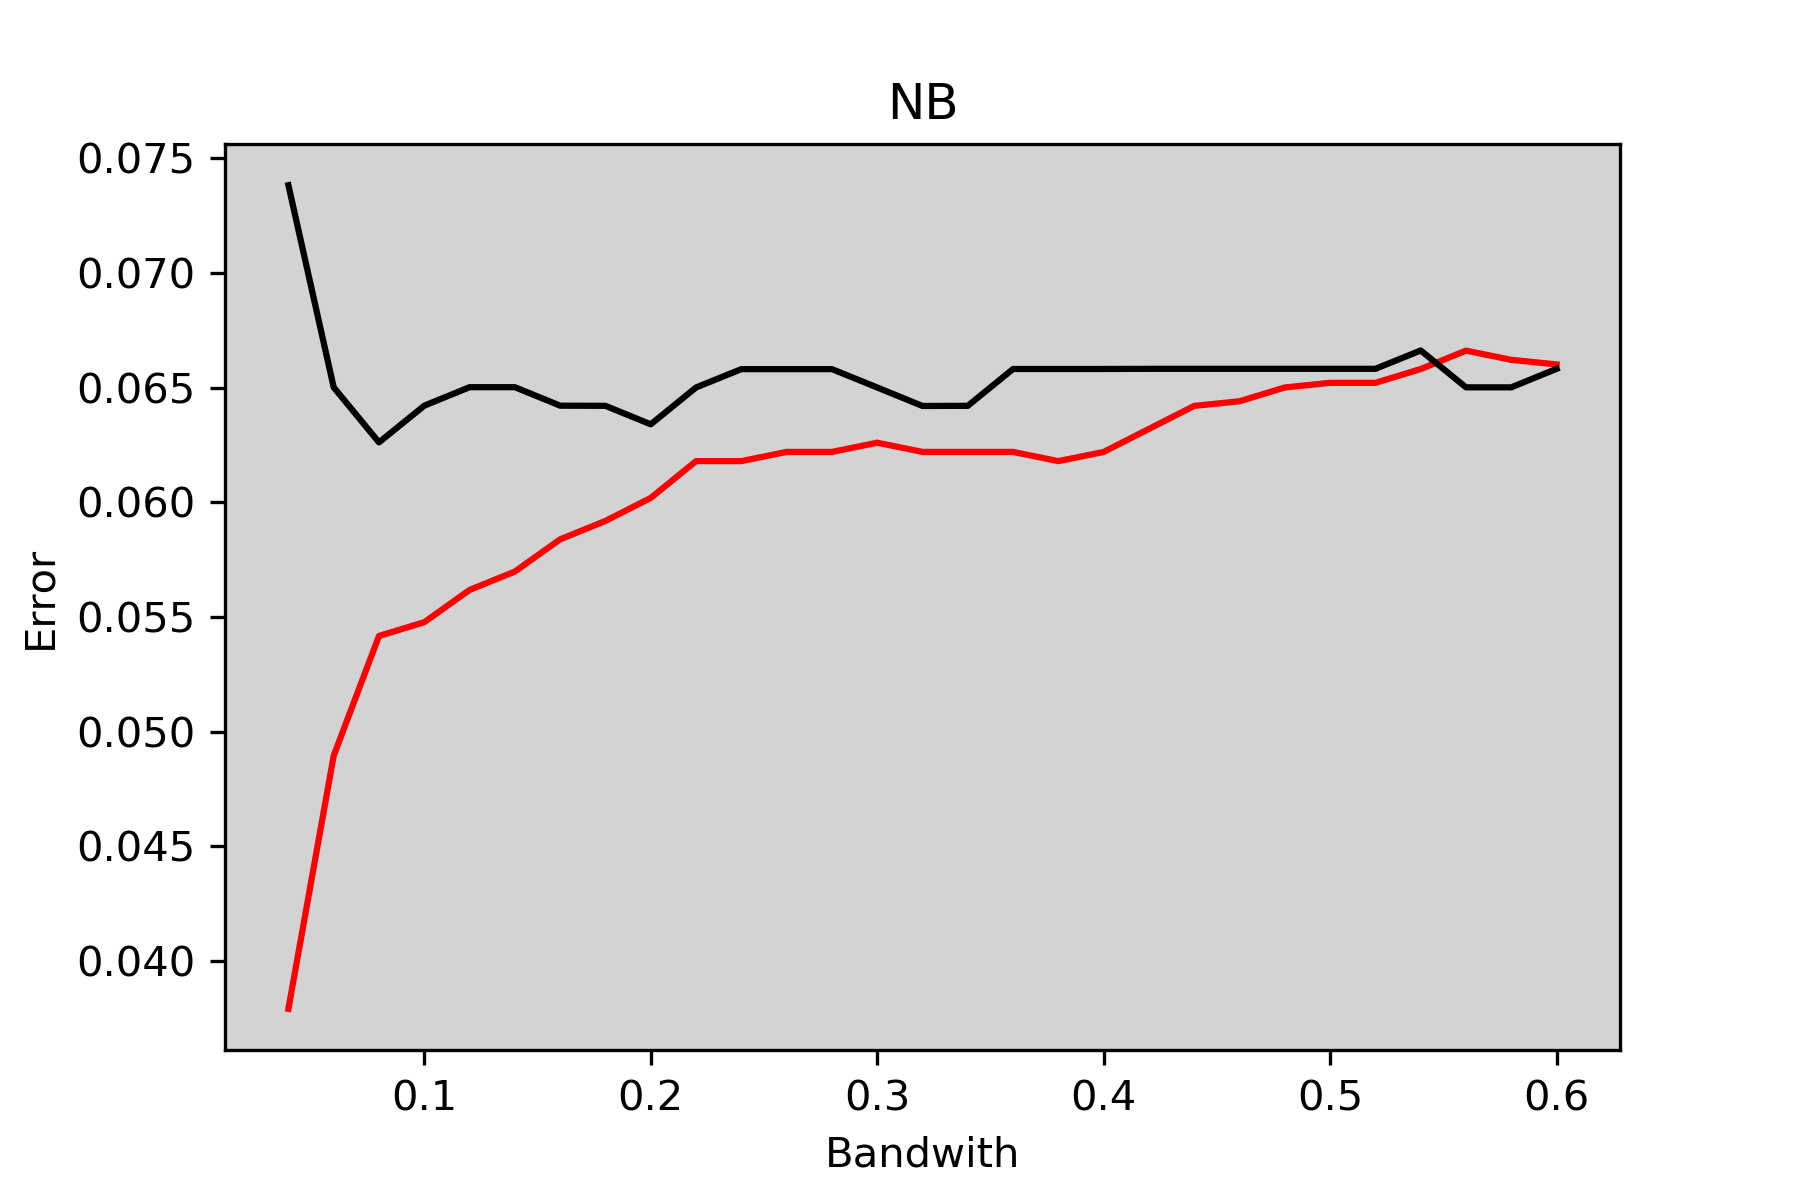
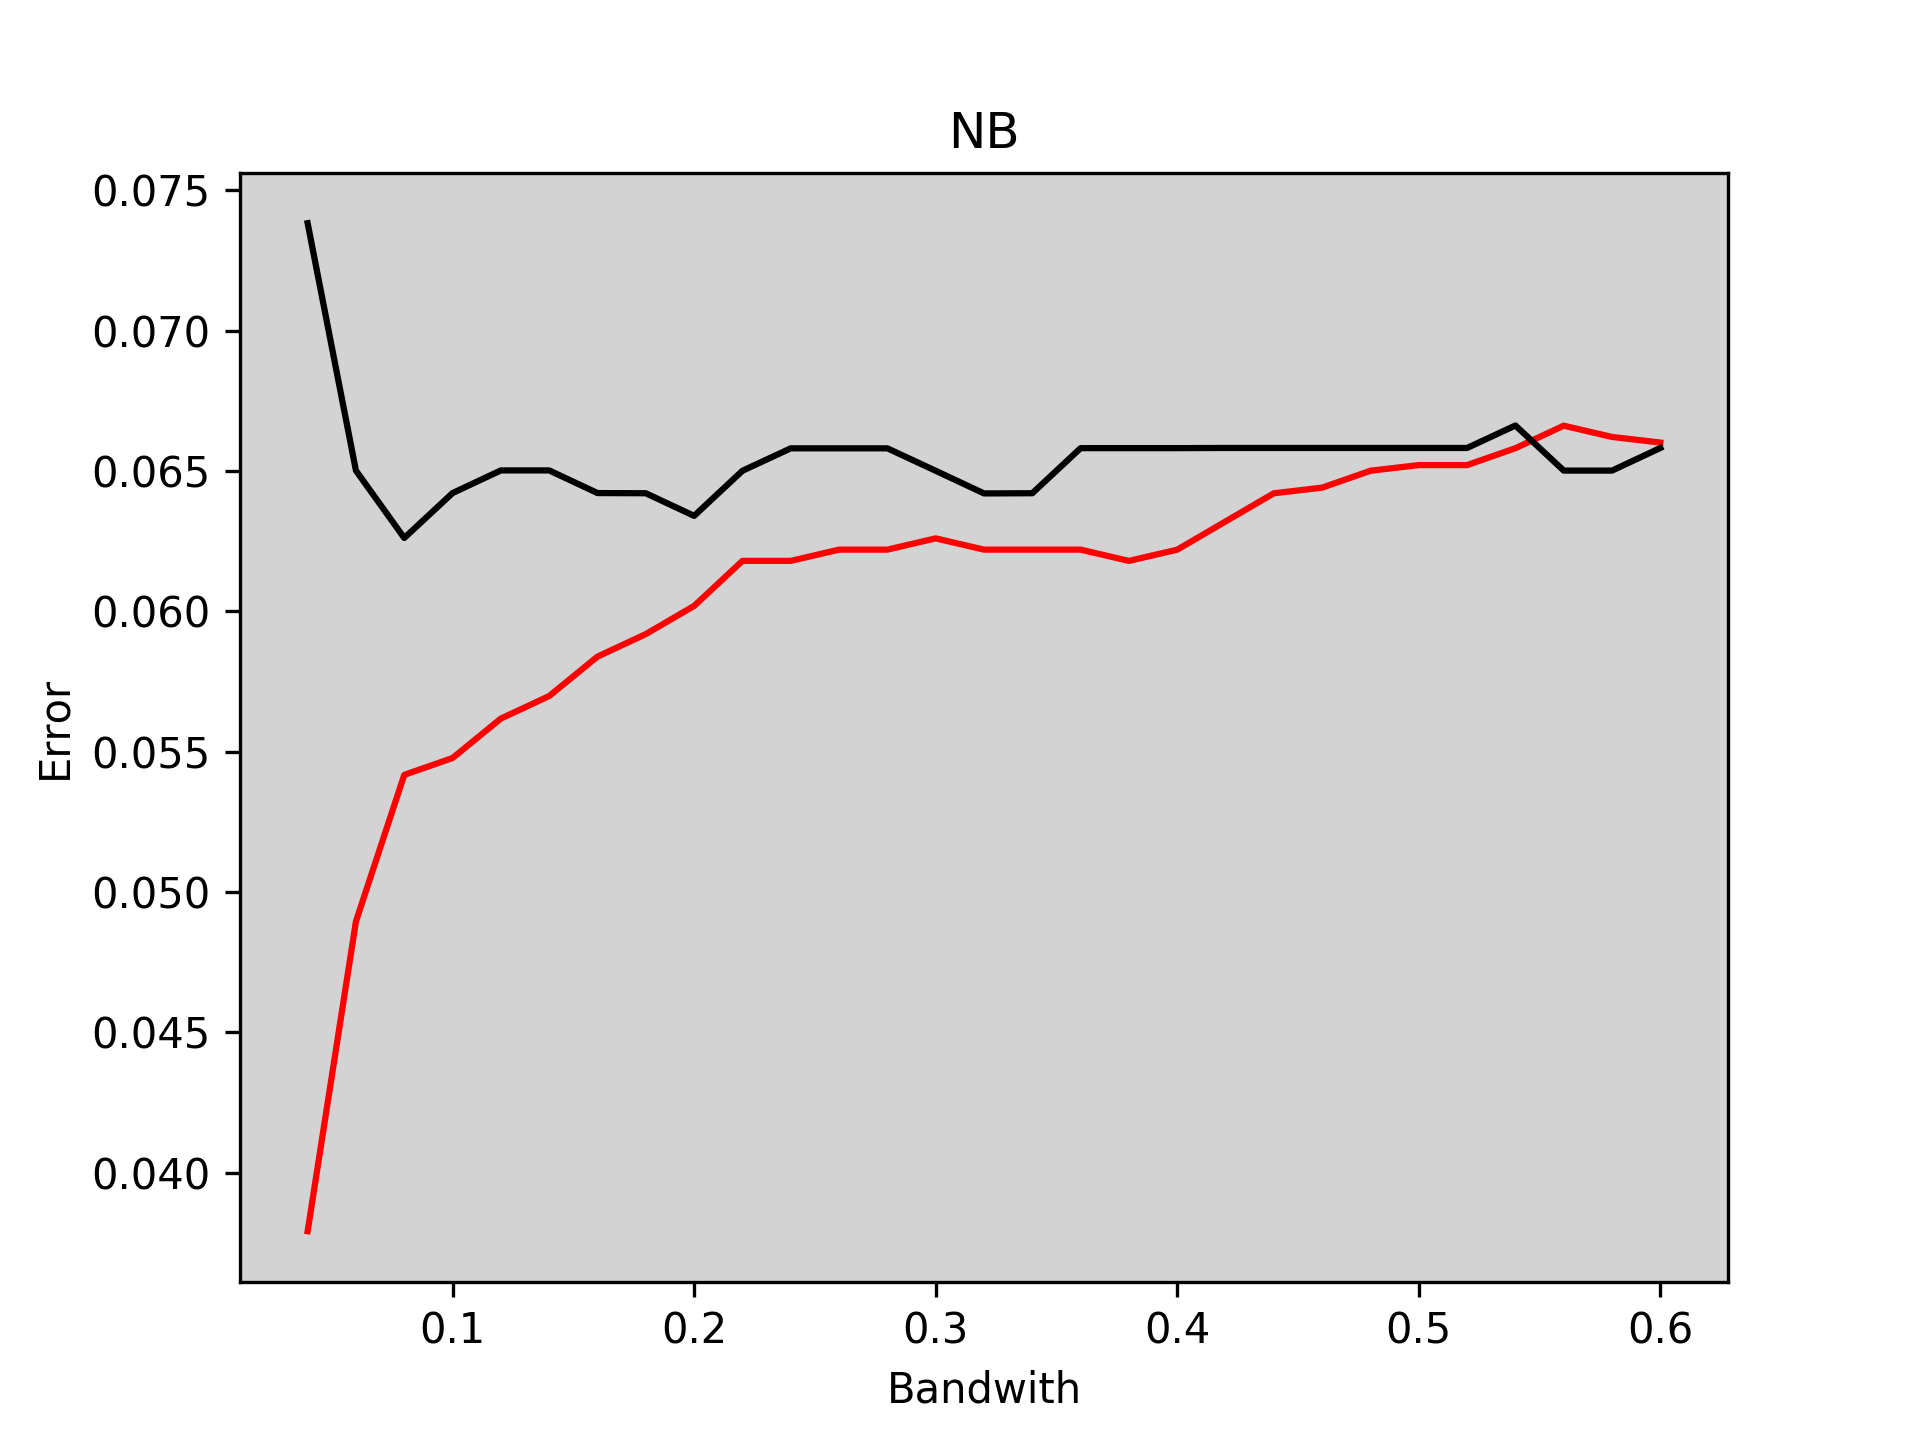
Graficos Gamma

diff --git a/ourNaive.py b/ourNaive.py
@@ -8,6 +8,7 @@ from sklearn.model_selection import StratifiedKFold;
 from sklearn.metrics import accuracy_score;
 
 testX = testY = [[],[]];
+best = [];
 
 def calcKDE(train,bandwith,feat):
     return KernelDensity(kernel='gaussian', bandwidth=bandwith).fit(np.array(train)[:,[feat]]);
@@ -37,6 +38,7 @@ def calcB(Xs,Ys, train, validation, bandwith,test):
 def predict(X, pTrue, pFalse,kde):
     probFalse = np.repeat(pFalse, X.shape[0]);
     probTrue = np.repeat(pTrue, X.shape[0]);
+    global best;
     best = [];
     for i in range(X.shape[1]):
         probFalse += kde[0][i].score_samples(np.array(X)[:,[i]]);
@@ -73,14 +75,14 @@ def kFolds(Ys,Xs,k,values):
         bandwidths.append(bandwith);
         trainErrorA.append(tError/k);
         trainValidA.append(vError/k);
+    plt.rcParams['axes.facecolor'] = 'lightgrey';
     plt.title('NB');
     plt.xlabel('Bandwith');
     plt.ylabel('Error');
     plt.plot(bandwidths, trainErrorA, '-r', label='Training error');
     plt.plot(bandwidths, trainValidA, '-k', label='Validation error');
-    plt.rcParams['axes.facecolor'] = 'lightgrey';
-    plt.savefig("NB", dpi=300)
-    plt.show();     
+    plt.savefig("NB", dpi=300);
+    plt.show();
     return bestBandwidth;
 
 
@@ -104,15 +106,11 @@ def readFromFile(fileName):
     return values;
 
 def getValuesFromFile(trainValues,testValues):   
-    shuffle(trainValues);
     Xs,Ys = stats(trainValues);
     bestBandwidth = kFolds(Ys,Xs,5,trainValues);
-    #TODO: Ler test file e temos de fazer split sobre todo o split sobre todo o trainX e trainY, calc prob, fit e por fim score sobre o ficheiro TEST
-    # Deve ficar algo assim:
-    shuffle(testValues);
     global testX;
     global testY;
     testX, testY = stats(testValues);
     score = calcB(Xs,Ys,np.array(list(enumerate(Xs)))[:,[0]].flatten(), [0],bestBandwidth,True);
-    return bestBandwidth,score;
+    return bestBandwidth,score,best;
 

diff --git a/SVMWithCrossValid.py b/SVMWithCrossValid.py
@@ -1,34 +1,46 @@
 from sklearn.svm import SVC;
 from ourNaive import *;
 
+SVMPredicts = [];
+
 def crossValidScore(trainX,trainY,validX,validY,g):
+	global SVMPredicts;
 	cl = SVC(gamma=g);
 	cl.fit(trainX,trainY);
-	toScoreValues = [];
+	SVMPredicts = [];
 	for row in range(validX.shape[0]):
-		toScoreValues.append(cl.predict([validX[row]]));
-	return (1-accuracy_score(np.array(validY),np.array(toScoreValues).flatten()));
+		SVMPredicts.append(cl.predict([validX[row]]));
+	return (1-accuracy_score(np.array(validY),np.array(SVMPredicts).flatten()));
 
 def crossValidateGamma(trainValues,k):
+	gammas = [];
+	errors = [];
 	shuffle(trainValues);
 	trainXs,trainYs = stats(trainValues);
 	kk = StratifiedKFold(k);
 	gamma = 0.2;
 	bestGamma = 0;
 	bestVError = 99999;
-	while gamma <=0.6:
+	while gamma <=6:
 		validError = 0;
 		for train,valid in kk.split(trainYs,trainYs):
 			validError = crossValidScore(trainXs[train],trainYs[train],trainXs[valid],trainYs[valid],gamma);
+		gammas.append(gamma);
+		errors.append(validError/k);
 		if validError/k < bestVError:
 			bestVError = validError/k;
 			bestGamma = gamma;
 		gamma += 0.2;
+	plt.close();
+	plt.title('SVM');
+	plt.xlabel('Gamma');
+	plt.ylabel('Error');
+	plt.plot(gammas,errors,'-r',label='Validation error');
+	plt.savefig("SVM",dpi=300);
+	plt.show();
 	return bestGamma,bestVError;
 
 def SVMGetScore(trainValues,testValues,gamma):
-	shuffle(trainValues);
 	trainXs,trainYs = stats(trainValues);
-	shuffle(testValues);
 	testXs,testYs = stats(testValues);
-	return crossValidScore(trainXs,trainYs,testXs,testYs,gamma);
+	return crossValidScore(trainXs,trainYs,testXs,testYs,gamma),list(np.array(SVMPredicts).flatten());

diff --git a/TP1.py b/TP1.py
@@ -4,22 +4,31 @@ from SVMWithCrossValid import *;
 
 trainValues = readFromFile("TP1_train.tsv");
 testValues = readFromFile("TP1_test.tsv");
+shuffle(trainValues);
+shuffle(testValues);
 
 #Our Naive Bayes
-'''
-bestBandwidth,score = getValuesFromFile(trainValues,testValues);
+bestBandwidth,score,predicts = getValuesFromFile(trainValues,testValues);
 
 print('Best Bandwidth:', bestBandwidth);
 print('Estimate test error our Naive Bayes:', score);
-'''
+
 #GaussianNB
-GNBScore = scoreGaussian(trainValues,testValues);
+GNBScore,GNBPredicts = scoreGaussian(trainValues,testValues);
 
 print('Estimate test error Gaussian Naive Bayes:', GNBScore);
 
 #Support Vector Machine
 bestGamma , bestError = crossValidateGamma(trainValues,5);
-SVMScore = SVMGetScore(trainValues,testValues,bestGamma);
+SVMScore,SVMPredicts = SVMGetScore(trainValues,testValues,bestGamma);
 
 print('Best Gamma:', bestGamma);
 print('Estimate test error SVM:', SVMScore);
+
+#McNemar's test
+'''
+print("------");
+print(predicts);
+print(GNBPredicts);
+print(SVMPredicts);
+'''

diff --git a/GaussianNB.py b/GaussianNB.py
@@ -2,17 +2,11 @@ from sklearn.naive_bayes import GaussianNB;
 from ourNaive import *;
 
 def scoreGaussian(trainValues, testValues):
-	shuffle(trainValues);
 	trainXs,trainYs = stats(trainValues);
-
-	shuffle(testValues);
 	testXs,testYs = stats(testValues);
-
 	clf = GaussianNB();
 	clf.fit(trainXs,trainYs);
-
 	toScoreValues = [];
 	for row in range(testXs.shape[0]):
 		toScoreValues.append(clf.predict([testXs[row]]));
-
-	return (1-accuracy_score(np.array(testYs),np.array(toScoreValues).flatten()));
+	return (1-accuracy_score(np.array(testYs),np.array(toScoreValues).flatten())),list(np.array(toScoreValues).flatten());
